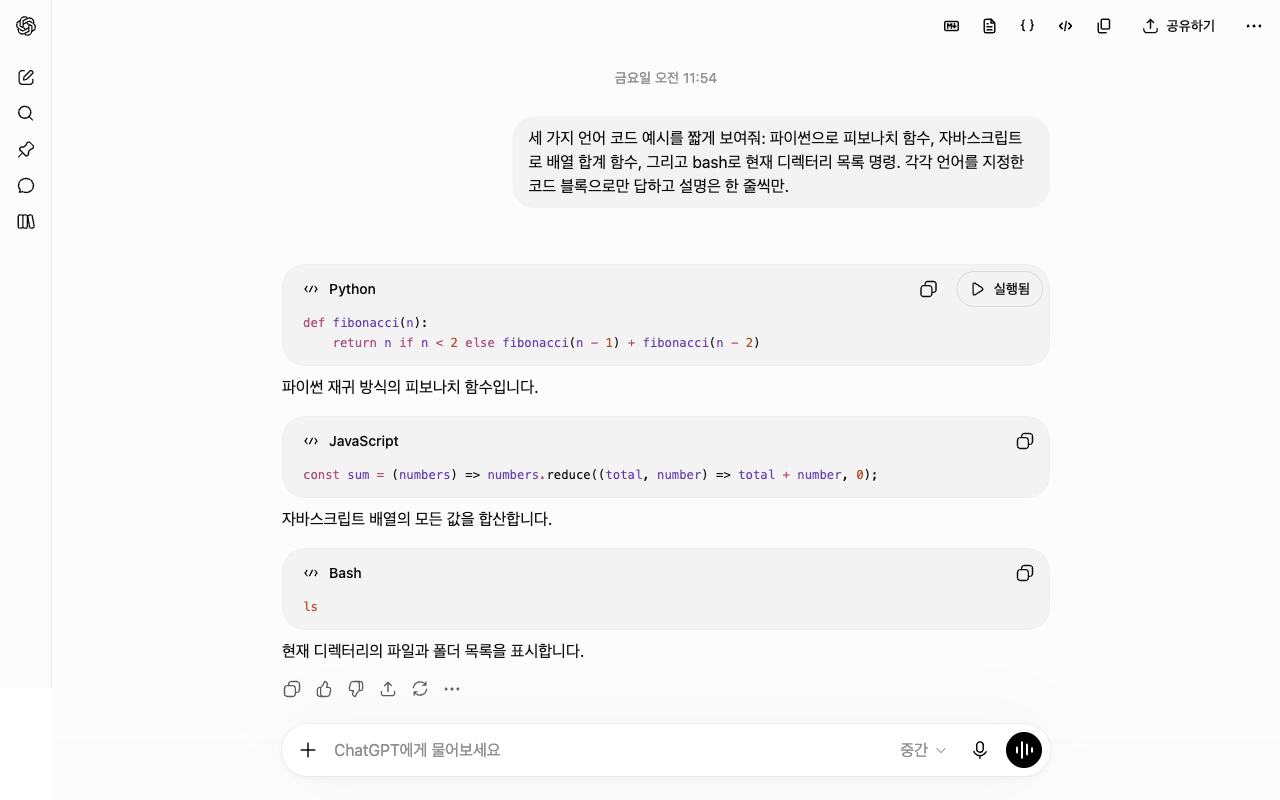
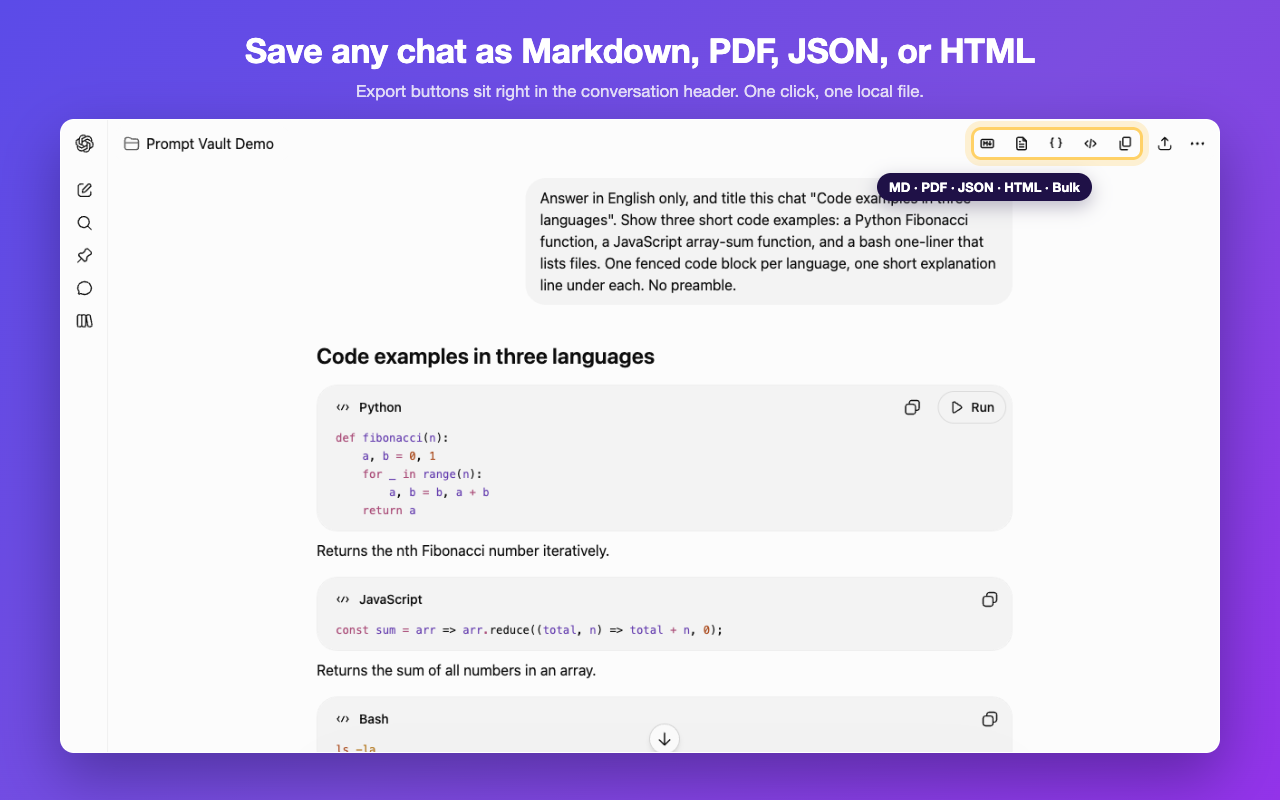
[DOCS] Refresh Chrome Web Store listing copy and screenshots for v1.10.2
The submission assets had drifted two releases behind the code and asserted two
things that are false:

- `_locales/{en,ko}` appDesc still read "ChatGPT first" and named only
  Markdown/PDF, though Claude and Gemini adapters and the JSON/HTML exporters
  have shipped since.
- The listing copy called bulk export "ChatGPT-only", though v1.10.0 shipped
  Claude's sidebar, project and `/recents` bulk tracks. Gemini is the only
  single-conversation-only provider (`src/adapters/gemini/index.ts:87`).

Screenshots (2026-07-29, v1.7) are replaced by a five-shot set captured against
v1.10.1, adding the two views the old set could not show: the bulk panel, and a
second provider. Conversations in them were created for the capture inside a
throwaway project, with sidebars collapsed, so no pre-existing conversation
title or account name appears. Captions and the toolbar highlight are
composited over unmodified captures.

The promo tile now names the product. Two PDF rendering artifacts found during
the capture are filed in backlog.md, confirmed against the PDF text layer.

diff --git a/docs/store-listing.md b/docs/store-listing.md
@@ -27,19 +27,24 @@ click saves the open conversation to your computer in the format you choose:
 • JSON (.json) — structured, round-trippable data
 • HTML (.html) — a self-contained document you can open in any browser
 
-Need more than one conversation? Enable the bulk-export button, choose conversations from
-the sidebar, and export the selected set in one format.
+Need more than one conversation? Open the bulk-export panel, tick the conversations you
+want, and save the whole set in one format and one run. On ChatGPT and Claude you can do
+this from the sidebar, from a project's conversation list, or — on Claude — from the full
+history page at claude.ai/recents.
 
 Key points:
 • 100% local. The extension makes no network requests and sends nothing to any server.
   Your conversations never leave your browser.
 • Least privilege. It runs only on ChatGPT (chatgpt.com), Claude (claude.ai) and
   Gemini (gemini.google.com), and requests only the minimum permissions needed.
+• Nothing silently truncated. If a conversation or a conversation list cannot be read in
+  full, the extension tells you instead of saving a short file.
 • Choose your toolbar. The extension popup lets you show or hide each export format icon
   and the bulk-export icon.
 • English and Korean UI follows your browser language.
 
-Supported providers: ChatGPT, Claude and Gemini. Bulk export is currently ChatGPT-only.
+Supported providers: ChatGPT, Claude and Gemini. Bulk export is available on ChatGPT and
+Claude; Gemini supports single-conversation export.
 ```
 
 ### Description (Korean, optional listing)
@@ -56,19 +61,23 @@ ChatGPT, Claude, Gemini 대화 페이지 헤더에 내보내기 버튼이 나타
 • JSON (.json) — 구조화된 왕복 변환용 데이터
 • HTML (.html) — 어떤 브라우저에서도 열 수 있는 자체 완결 문서
 
-여러 대화가 필요하면 일괄 내보내기 버튼을 활성화하고 사이드바에서 대화를 선택해 한
-형식으로 저장할 수 있습니다.
+여러 대화를 한 번에 저장하려면 일괄 내보내기 패널을 열고 원하는 대화를 선택한 뒤 한
+형식으로 내려받으면 됩니다. ChatGPT와 Claude에서는 사이드바와 프로젝트 대화 목록에서,
+Claude에서는 전체 기록 페이지(claude.ai/recents)에서도 사용할 수 있습니다.
 
 핵심:
 • 100% 로컬. 확장 프로그램 자체는 네트워크 요청을 하지 않으며 어떤 서버로도 대화를
   보내지 않습니다.
 • 최소 권한. ChatGPT(chatgpt.com), Claude(claude.ai), Gemini(gemini.google.com)에서만
   동작합니다.
+• 잘린 저장 없음. 대화나 대화 목록을 끝까지 읽지 못하면 짧은 파일을 만드는 대신 오류를
+  표시합니다.
 • 툴바 선택. 확장 프로그램 팝업에서 형식별 아이콘과 일괄 내보내기 아이콘을 표시하거나
   숨길 수 있습니다.
 • 브라우저 언어에 따라 영어 또는 한국어 UI를 표시합니다.
 
-현재 지원하는 서비스는 ChatGPT, Claude, Gemini입니다. 일괄 내보내기는 ChatGPT에서만 제공됩니다.
+현재 지원하는 서비스는 ChatGPT, Claude, Gemini입니다. 일괄 내보내기는 ChatGPT와 Claude에서
+제공되며, Gemini는 단일 대화 내보내기를 지원합니다.
 ```
 
 ### Single-purpose statement (Privacy tab)
@@ -76,9 +85,10 @@ ChatGPT, Claude, Gemini 대화 페이지 헤더에 내보내기 버튼이 나타
 ```
 Prompt Vault has one purpose: to export the user's own AI chat conversations to local
 Markdown, PDF, JSON, or HTML files. It supports ChatGPT, Claude and Gemini. The user exports the
-open conversation or, on ChatGPT, selects a set of sidebar conversations through the
-optional bulk action. The extension reads conversation content only in response to that
-user action and only to create local downloads.
+open conversation or, on ChatGPT and Claude, selects a set of conversations from the
+sidebar, a project list, or the history page through the optional bulk action. The
+extension reads conversation content only in response to that user action and only to
+create local downloads.
 ```
 
 ## Privacy and permission declarations
@@ -118,21 +128,53 @@ Data-use declarations:
 | Asset | Requirement | Repository status |
 |-------|-------------|-------------------|
 | Store icon | 128×128 PNG | Ready: `public/icons/icon128.png` |
-| Screenshots | 1280×800 PNG/JPEG; 1–5 images; at least one required | Ready: `assets/store/screenshot-{01-chatgpt-toolbar,02-settings,03-exported-pdf}.png` |
-| Small promotional tile | 440×280 PNG; required | Ready: `assets/store/small-promo-440x280.png` |
+| Screenshots | 1280×800 PNG/JPEG; 1–5 images; at least one required | Ready: `assets/store/screenshot-0{1..5}-*.png` (captured 2026-08-11 against v1.10.1; 1.10.2 changed listing copy only, no UI) |
+| Small promotional tile | 440×280 PNG; required | Ready: `assets/store/small-promo-440x280.png`, rendered from the sibling `.svg` |
 | Marquee promotional tile | 1400×560 PNG; optional | Not prepared; omit for launch |
 
 Do not mock or reconstruct product screenshots. Capture the installed extension on a real,
-logged-in ChatGPT session, then remove or obscure account details, private conversation
-titles, avatars, and other personal information. Keep each final image exactly 1280×800.
+logged-in session, then remove or obscure account details, private conversation titles,
+avatars, and other personal information. The shipped set was captured with the sidebar
+collapsed and every conversation created for the capture inside a throwaway
+**Prompt Vault Demo** project, so no pre-existing conversation title appears in any image.
+The caption band and the highlight ring around the toolbar icons are composited on top of
+the unmodified capture — never edit the product pixels themselves. Keep each final image
+exactly 1280×800.
 
-Recommended screenshot set:
+Shipped screenshot set (in listing order):
 
-1. Sanitized ChatGPT conversation with MD, PDF, JSON, HTML, and Bulk controls visible in
-   the conversation header.
-2. Extension popup showing format visibility and bulk-export settings.
-3. Exported PDF containing non-sensitive English/Korean text and a code block, demonstrating
-   selectable text and correctly rendered CJK glyphs.
+1. `screenshot-01-chatgpt-toolbar` — ChatGPT conversation, MD/PDF/JSON/HTML/Bulk controls
+   ringed in the conversation header.
+2. `screenshot-02-project-bulk-export` — the bulk panel over a ChatGPT project home with all
+   four conversations selected.
+3. `screenshot-03-claude-conversation` — the same toolbar on Claude, evidence for the
+   multi-provider claim. Captioned "Same buttons on Claude", not "…and Gemini": no Gemini
+   pixel is in frame, and a caption must not claim more than its own image shows.
+4. `screenshot-04-popup-settings` — the extension popup's format and bulk-icon toggles.
+5. `screenshot-05-exported-pdf` — a real exported PDF with mixed English/Korean prose and
+   code blocks, demonstrating selectable text and correctly rendered CJK glyphs.
+
+**Capturing in English on a Korean machine.** macOS Chrome takes its UI language from the OS —
+there is no "display Chrome in this language" control in `chrome://settings/languages` — so
+`chrome.i18n` resolves to `ko` and the extension's own popup and bulk panel render Korean. Two
+moves cover most of the frame without touching the user's own Chrome or any account setting:
+
+- Reorder the *capture profile's* language list so English (US) is first. That flips the
+  `Accept-Language` header, which is enough for ChatGPT's UI and for Claude's page title and
+  server-rendered strings on the next load.
+- Temporarily copy `public/_locales/en/messages.json` over `dist/_locales/ko/messages.json` and
+  reload the unpacked extension. `dist/` is gitignored, so this never reaches a tracked file.
+  Restore the file and reload again when finished.
+
+**What that does NOT cover, measured 2026-08-11:** strings Claude renders from
+`navigator.language` stay Korean regardless of the header — in the shipped
+`screenshot-03-claude-conversation.png` the native Share control still reads `공유`. Claude has no
+UI-language setting to change either (`claude.ai/settings/general`'s only language control is
+under **음성/Voice**, and it governs speech, not the interface). The remaining route is launching
+the capture browser with `--lang=en-US`, which the Playwright MCP server is not configured to
+pass; changing that is a user-scoped MCP config edit, so propose it rather than assuming it.
+Collapse the sidebar before capturing either way — it is what keeps the conversation history and
+account name out of frame, and it removes most of the Korean nav at the same time.
 
 ## Submission checklist
 
@@ -149,7 +191,7 @@ Recommended screenshot set:
 ### Live capture
 
 - [x] Use a non-sensitive demonstration conversation
-- [x] Capture three real screenshots at 1280×800
+- [x] Capture five real screenshots at 1280×800 (2026-08-11, extension v1.10.1 — no UI change in 1.10.2)
 - [x] Inspect every image for names, email addresses, avatars, sidebar history, and private text
 - [x] Confirm PDF Korean/CJK glyphs render without missing-glyph boxes
 
@@ -158,7 +200,7 @@ Recommended screenshot set:
 - [ ] Create or verify the Chrome Web Store developer account and complete registration payment
 - [ ] Upload `prompt-vault-v<version>.zip`
 - [ ] Paste the listing fields and select Productivity
-- [ ] Upload `public/icons/icon128.png`, 1–5 screenshots, and
+- [ ] Upload `public/icons/icon128.png`, the five screenshots in numbered order, and
   `assets/store/small-promo-440x280.png`
 - [ ] Enter the single-purpose statement and permission justifications
 - [ ] Confirm the privacy-policy URL is publicly accessible, then enter it

diff --git a/CHANGELOG.md b/CHANGELOG.md
@@ -2,6 +2,23 @@
 
 ## Unreleased
 
+- [done] Store submission assets refreshed for v1.10.2 (2026-08-11) → docs/store-listing.md. The
+  listing had drifted two releases behind the code and stated two things that were false: the
+  manifest description still read "ChatGPT first" and named only Markdown/PDF, and the listing
+  copy still called bulk export "ChatGPT-only" after v1.10.0 shipped Claude's sidebar, project and
+  `/recents` tracks. Both corrected, in `_locales` and in the listing. The screenshots (captured
+  2026-07-29 against v1.7) were replaced with a five-shot set captured against v1.10.1: the
+  ChatGPT toolbar with the export controls ringed, the project bulk panel, the same toolbar on
+  Claude, the popup toggles, and a real exported PDF. Every conversation in them was created for
+  the capture inside a throwaway project and every sidebar collapsed, so no pre-existing
+  conversation title or account name appears. The small promo tile now carries the product name.
+  Capturing an English frame on a Korean machine needed two moves that are now written down —
+  `Accept-Language` reordering in the capture profile, and a temporary English `dist` locale —
+  because macOS Chrome takes `chrome.i18n` from the OS and neither is discoverable from the code.
+  The exported PDF also surfaced two rendering artifacts, both confirmed against the PDF's own
+  text layer rather than the rendered page (the layer holds `=>` and literal backticks, so the
+  substitution is the font's and the fence is the exporter's); they are filed, not fixed.
+
 - [done] Claude /recents QA follow-ups (v1.10.1) (2026-08-11) → docs/live-dom-verification.md
 - [done] Claude bulk export via /recents (v1.10.0) (2026-08-11) → docs/live-dom-verification.md
 - [done] Fail loud when a Claude project route renders no conversation table (v1.9.2) (2026-08-10)

diff --git a/backlog.md b/backlog.md
@@ -30,6 +30,22 @@ continuation line is invisible to it and the blocked item is offered as actionab
 
 ## Review Backlog
 
+### PDF rendering artifacts seen while capturing store screenshots (2026-08-11)
+
+> Both were observed in a real export (`chatgpt-…-Python-and-bash-snippets-20260811.pdf`) made
+> while capturing `assets/store/screenshot-05-exported-pdf.png`. Cosmetic, but they land in the
+> one artifact the listing shows off, so they are worth closing before wide distribution.
+
+- [ ] [FIX] Inline code loses its markers in the PDF but keeps its backticks. A prose run that
+      ChatGPT renders as `<code>reduce()</code>` reaches the PDF as the literal text
+      `` `reduce()` `` — the Markdown fence is emitted, but the PDF has no inline-code style to
+      justify it. Decide one way: style the run (monospace/tint) and drop the backticks, or leave
+      the text plain. Pin whichever with a test on the PDF text runs.
+- [ ] [FIX] The PDF's monospace font substitutes coding ligatures into code text. `=>` renders as
+      `⇒` in an exported JavaScript block, so what the reader copies out of the PDF does not match
+      what the page showed. Disable the ligature feature for the code font (or pick a
+      non-ligature face) and assert `=>` survives a round trip.
+
 ### QA pass on the `/recents` bulk track + empty-project fix (2026-08-11)
 
 > Non-blocking findings from the independent QA of the sprint that shipped the Claude `/recents`
